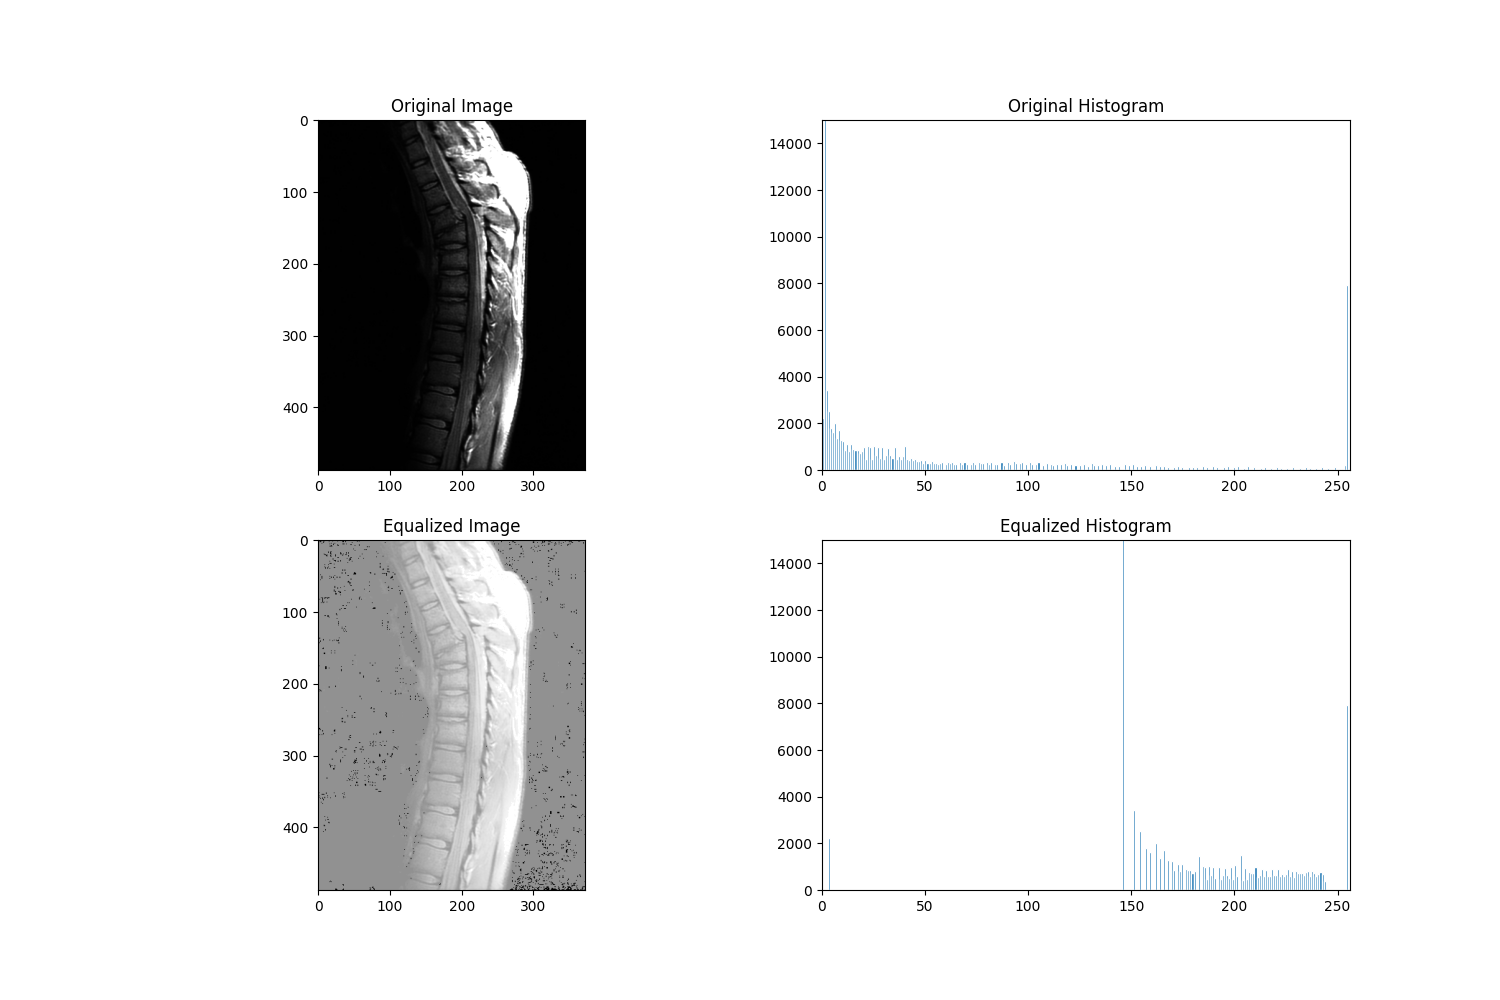
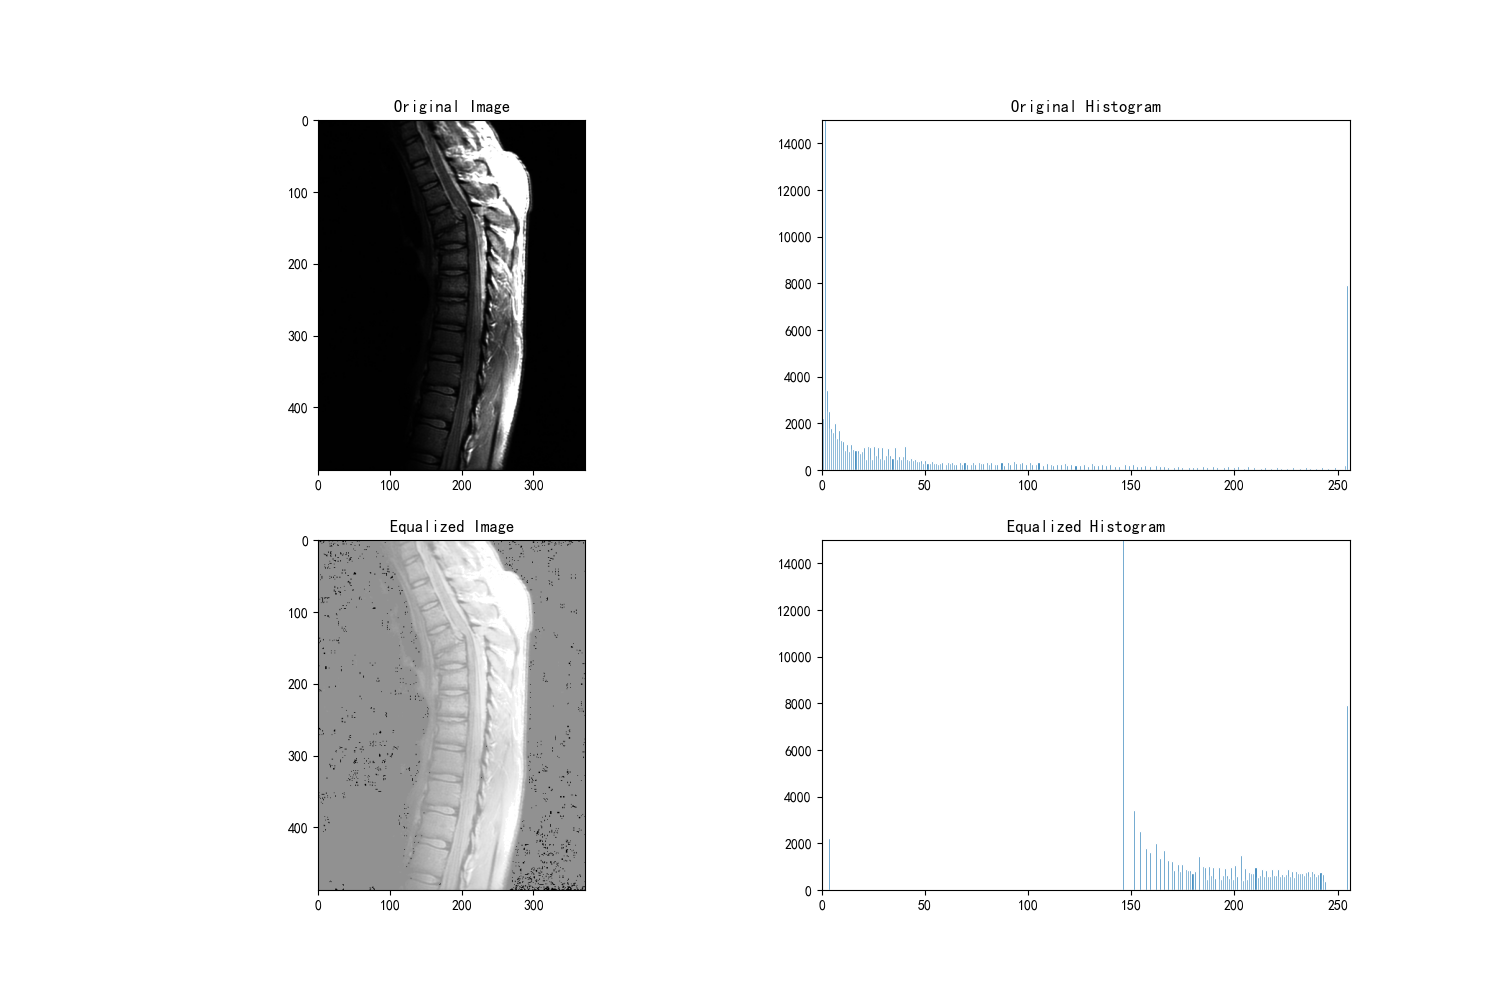
the final version of hw01

diff --git a/proj_03_06.py b/proj_03_06.py
@@ -2,59 +2,49 @@ from PIL import Image
 import numpy as np
 import matplotlib.pyplot as plt
 import cv2
+import matplotlib
+
+matplotlib.rcParams['font.sans-serif'] = ['SimHei'] 
+matplotlib.rcParams['axes.unicode_minus'] = False
 
 def load_image(path):
     image = Image.open(path).convert('L')  # Convert to grayscale
     return np.array(image)
 
-# 创建拉普拉斯滤波器
-def create_laplacian_filterv1(alpha):
-    return np.array([[0, -1, 0], [-1, 4 + alpha, -1], [0, -1, 0]])
+def high_boost_filter(image, A):
+    kernel = np.ones((3, 3), np.float32) / 9.0
+    blurred_image = cv2.filter2D(image, -1, kernel)
+    enhanced_image = A * image - blurred_image
+    enhanced_image = np.clip(enhanced_image, 0, 255).astype(np.uint8)
+    
+    return enhanced_image, blurred_image
 
-def create_laplacian_filterv2(alpha):
-    return np.array([[-1, -1, -1], [-1, 8 + alpha, -1], [-1, -1, -1]])
-
-
-
-def main(img_path, mode):
+def main(img_path):
     img = load_image(img_path)
+    blurred_img = None
+    fig, axs = plt.subplots(2, 4, figsize=(10, 6))
 
-    # 创建绘图窗口
-    fig, axs = plt.subplots(2, 4, figsize=(10, 8))
-
-    # 显示原始图像
     axs[0, 0].imshow(img, cmap='gray')
     axs[0, 0].set_title('Original')
     axs[0, 0].axis('off')
 
-    # 初始化计数器
     cnt = 0
 
-    # 遍历不同的alpha值
-    for alpha in [0.6, 1, 1.7, 2.3, 2.9, 5, 10]:
-        # 创建Laplacian滤波器
-        if mode == 'v1':
-            h = create_laplacian_filterv1(alpha)
-        else:
-            h = create_laplacian_filterv2(alpha)
-
-        # 应用卷积滤波器
-        img_temp = cv2.filter2D(img, -1, h)
-
-        # 将滤波后的图像与原图像相加
-        img_out = cv2.add(img, img_temp)
-
-        # 显示结果图像
+    for alpha in [0.6, 1, 1.7, 2.3, 2.9, 5]:
+        
+        enhanced_img, blurred_img = high_boost_filter(img, alpha)
         cnt += 1
-        axs[cnt // 4, cnt % 4].imshow(img_out, cmap='gray')
-        axs[cnt // 4, cnt % 4].set_title(f'α = {alpha}')
+        axs[cnt // 4, cnt % 4].imshow(enhanced_img, cmap='gray')
+        axs[cnt // 4, cnt % 4].set_title(f'A = {alpha}')
         axs[cnt // 4, cnt % 4].axis('off')
         
-    # 调整布局以避免重叠
+    axs[-1, -1].imshow(blurred_img, cmap='gray')
+    axs[-1, -1].set_title('应用均值滤波的模糊图像')
+    axs[-1, -1].axis('off')
     plt.tight_layout()
     plt.show()
-    plt.savefig(f'hw_01/proj_03_06_{mode}.png', format='png')
+    plt.savefig(f'hw_01/proj_03_06.png', format='png')
 
 if __name__ == "__main__":
     img_path = './data/images_chapter_03/Fig3.43(a).jpg'
-    main(img_path, 'v2')
+    main(img_path)

diff --git a/debu.py b/debu.py
@@ -1,48 +1,50 @@
-import cv2
+from PIL import Image
 import numpy as np
 import matplotlib.pyplot as plt
+import cv2
 
-# 读取图像并转换为双精度浮点格式
-I = cv2.imread('./data/images_chapter_03/Fig3.40(a).jpg', cv2.IMREAD_GRAYSCALE)
-I = I.astype(np.float64) / 255.0  # 转换为[0,1]范围的双精度图像
+def load_image(path):
+    image = Image.open(path).convert('L')  # Convert to grayscale
+    return np.array(image)
 
-# 初始化结果图像
-J = np.zeros_like(I)
+def create_laplacian_filterv1(alpha):
+    return np.array([[0, -1, 0], [-1, 4 + alpha, -1], [0, -1, 0]])
 
-# 获取图像的尺寸
-M, N = I.shape
+def create_laplacian_filterv2(alpha):
+    return np.array([[-1, -1, -1], [-1, 8 + alpha, -1], [-1, -1, -1]])
 
-# 滤波操作
-for x in range(1, M-1):
-    for y in range(1, N-1):
-        J[x, y] = 9 * I[x, y]
-        for dx in range(-1, 2):
-            for dy in range(-1, 2):
-                J[x, y] -= I[x + dx, y + dy]
+def high_boost_filter(image, A):
+    kernel = np.ones((3, 3), np.float32) / 9.0
+    blurred_image = cv2.filter2D(image, -1, kernel)
+    enhanced_image = (1 + A) * image - A * blurred_image
+    enhanced_image = np.clip(enhanced_image, 0, 255).astype(np.uint8)
+    
+    return enhanced_image, blurred_image
 
-# 显示图像
-plt.figure(figsize=(12, 4))
+def main(img_path, mode):
+    img = load_image(img_path)
 
-# 原始图像
-plt.subplot(1, 3, 1)
-plt.imshow((I * 255).astype(np.uint8), cmap='gray')
-plt.title('Original Image')
-plt.axis('off')
+    fig, axs = plt.subplots(2, 4, figsize=(10, 8))
 
-# 滤波后图像
-plt.subplot(1, 3, 2)
-plt.imshow((J * 255).astype(np.uint8), cmap='gray')
-plt.title('Filtered Image')
-plt.axis('off')
+    axs[0, 0].imshow(img, cmap='gray')
+    axs[0, 0].set_title('Original')
+    axs[0, 0].axis('off')
 
-# 原图与滤波后图像相加
-output = I + J
-plt.subplot(1, 3, 3)
-plt.imshow((output * 255).astype(np.uint8), cmap='gray')
-plt.title('Original + Filtered')
-plt.axis('off')
+    cnt = 0
 
-# 展示结果
-plt.tight_layout()
-plt.show()
-plt.savefig('hw_01/debug_0305.png')
+    for alpha in [0.6, 1, 1.7, 2.3, 2.9, 5]:
+        
+        enhanced_img, blurred_img = high_boost_filter(img, alpha)
+
+        cnt += 1
+        axs[cnt // 4, cnt % 4].imshow(enhanced_img, cmap='gray')
+        axs[cnt // 4, cnt % 4].set_title(f'α = {alpha}')
+        axs[cnt // 4, cnt % 4].axis('off')
+        
+    plt.tight_layout()
+    plt.show()
+    plt.savefig(f'hw_01/proj_03_06_{mode}.png', format='png')
+
+if __name__ == "__main__":
+    img_path = './data/images_chapter_03/Fig3.43(a).jpg'
+    main(img_path, 'v2')

diff --git a/proj_03_02.py b/proj_03_02.py
@@ -2,6 +2,10 @@ from PIL import Image
 import numpy as np
 import matplotlib.pyplot as plt
 from skimage import exposure
+import matplotlib
+
+matplotlib.rcParams['font.sans-serif'] = ['SimHei'] 
+matplotlib.rcParams['axes.unicode_minus'] = False
 
 def load_image(image_path):
     image = Image.open(image_path).convert('L')
@@ -20,16 +24,12 @@ def histogram_equalization(image_array):
     
     # Convert back to unsigned 8-bit integer format
     equalized_image_array = np.round(equalized_image_array).astype(np.uint8)
-    # equalized_image_array = exposure.equalize_hist(image_array) * 255
+    # equalized_image_array = exposure.equalize_hist(image_array) * 255 # anther way to histogram_equalization
 
     return equalized_image_array, cdf_normalized
 
 
 def display_results(original_image, equalized_image):
-    # Compute histograms
-    # original_hist, _ = np.histogram(original_image.flatten(), 256, [0, 256])
-    # equalized_hist, _ = np.histogram(equalized_image.flatten(), 256, [0, 256])
-    
     # Display original and equalized images
     plt.figure(figsize=(15, 10))
     plt.subplot(2, 2, 1)
@@ -40,8 +40,6 @@ def display_results(original_image, equalized_image):
     plt.title("Equalized Image")
     plt.imshow(equalized_image, cmap='gray')
     
-    # Display histograms
-    # plt.figure(figsize=(10, 5))
     plt.subplot(2, 2, 2)
     plt.title("Original Histogram")
     plt.hist(original_image.flatten(), bins=256, edgecolor = 'w')
@@ -50,11 +48,9 @@ def display_results(original_image, equalized_image):
     
     plt.subplot(2, 2, 4)
     plt.title("Equalized Histogram")
-    # plt.plot(equalized_hist)
     plt.hist(equalized_image.flatten(), bins=256, edgecolor='w')
     plt.xlim([0, 256])
     plt.ylim([0, 15000])
-    # plt.show()
 
     plt.savefig('hw_01/proj_03_02.png', format='png')
 
@@ -63,4 +59,10 @@ if __name__ == "__main__":
     image = load_image(image_path)
     image_array = np.array(image)
     equalized_image_array, cdf_normalized = histogram_equalization(image_array)
+    plt.figure()
+    plt.plot(cdf_normalized)
+    plt.title('直方图均衡化变换函数')
+    plt.xlabel('原始像素值')
+    plt.ylabel('均衡化后的像素值')
+    plt.savefig('hw_01/proj_03_02_1.png', format='png')
     display_results(image_array, equalized_image_array)

diff --git a/proj_02_01.py b/proj_02_01.py
@@ -1,6 +1,10 @@
 from PIL import Image
 import numpy as np
+import matplotlib
 import matplotlib.pyplot as plt
+
+matplotlib.rcParams['font.sans-serif'] = ['SimHei'] 
+matplotlib.rcParams['axes.unicode_minus'] = False
 
 # Define dot patterns for levels 0 to 9
 def halftone_pattern():
@@ -73,13 +77,16 @@ if __name__ == "__main__":
     input_image_paths = ['./data/images_chapter_02/Fig2.22(a).jpg', 
                          './data/images_chapter_02/Fig2.22(b).jpg',
                          './data/images_chapter_02/Fig2.22(c).jpg']
+    output_image_names = [
+        ('Figs.2.22(a)处理前', 'Figs.2.22(a)处理后'),
+        ('Figs.2.22(b)处理前', 'Figs.2.22(b)处理后'),
+        ('Figs.2.22(c)处理前', 'Figs.2.22(c)处理后')
+    ]
     printed_images = []
     for iip in input_image_paths:
         input_image = Image.open(iip)
-        # print(np.array(input_image).shape)
         halftoned_image = main(input_image)
         printed_images.append((input_image, halftoned_image))
-    # print(np.array(halftoned_image).shape)
 
     # (b) Generate and save the test pattern
     test_pattern = create_test_pattern(256)
@@ -89,11 +96,11 @@ if __name__ == "__main__":
     for col in range(3):
         image_pair = printed_images[col]
         axs[0, col].imshow(image_pair[0], cmap='gray')
-        axs[0, col].set_title('Original')
+        axs[0, col].set_title(output_image_names[col][0])
         axs[0, col].axis('off')
 
         axs[1, col].imshow(image_pair[1], cmap='gray')
-        axs[1, col].set_title('Halftoned Image')
+        axs[1, col].set_title(output_image_names[col][1])
         axs[1, col].axis('off')
 
     
@@ -105,8 +112,6 @@ if __name__ == "__main__":
     axs[1, 3].set_title('Halftoned Test Pattern Image')
     axs[1, 3].axis('off')
 
-    # remove blank subplot
-    # fig.delaxes(axs[0, 1])  # 移除第一行第二个子图位置
     plt.tight_layout()
     plt.show()
     plt.savefig('hw_01/proj_02_01.png', format='png')

diff --git a/proj_03_05.py b/proj_03_05.py
@@ -21,13 +21,10 @@ def laplacian_filteringv2(img):
     return img2
 
 if __name__ == "__main__":
-    # 加载原始图像
     img = load_image('./data/images_chapter_03/Fig3.40(a).jpg')
 
-    # 创建绘图窗口
     fig, axs = plt.subplots(3, 2, figsize=(12, 12))
 
-    # 显示原始图像
     axs[0, 0].imshow(img, cmap='gray')
     axs[0, 0].set_title('Original')
     axs[0, 0].axis('off')
@@ -55,8 +52,8 @@ if __name__ == "__main__":
     axs[2, 1].set_title('Output 2 (Original + Custom Laplacian Mask)')
     axs[2, 1].axis('off')
 
-    # 移除空白子图
-    fig.delaxes(axs[0, 1])  # 移除第一行第二个子图位置
+    # remove blank subplot
+    fig.delaxes(axs[0, 1])  
     plt.tight_layout()
     plt.show()
     plt.savefig('hw_01/proj_03_05.png', format='png')
